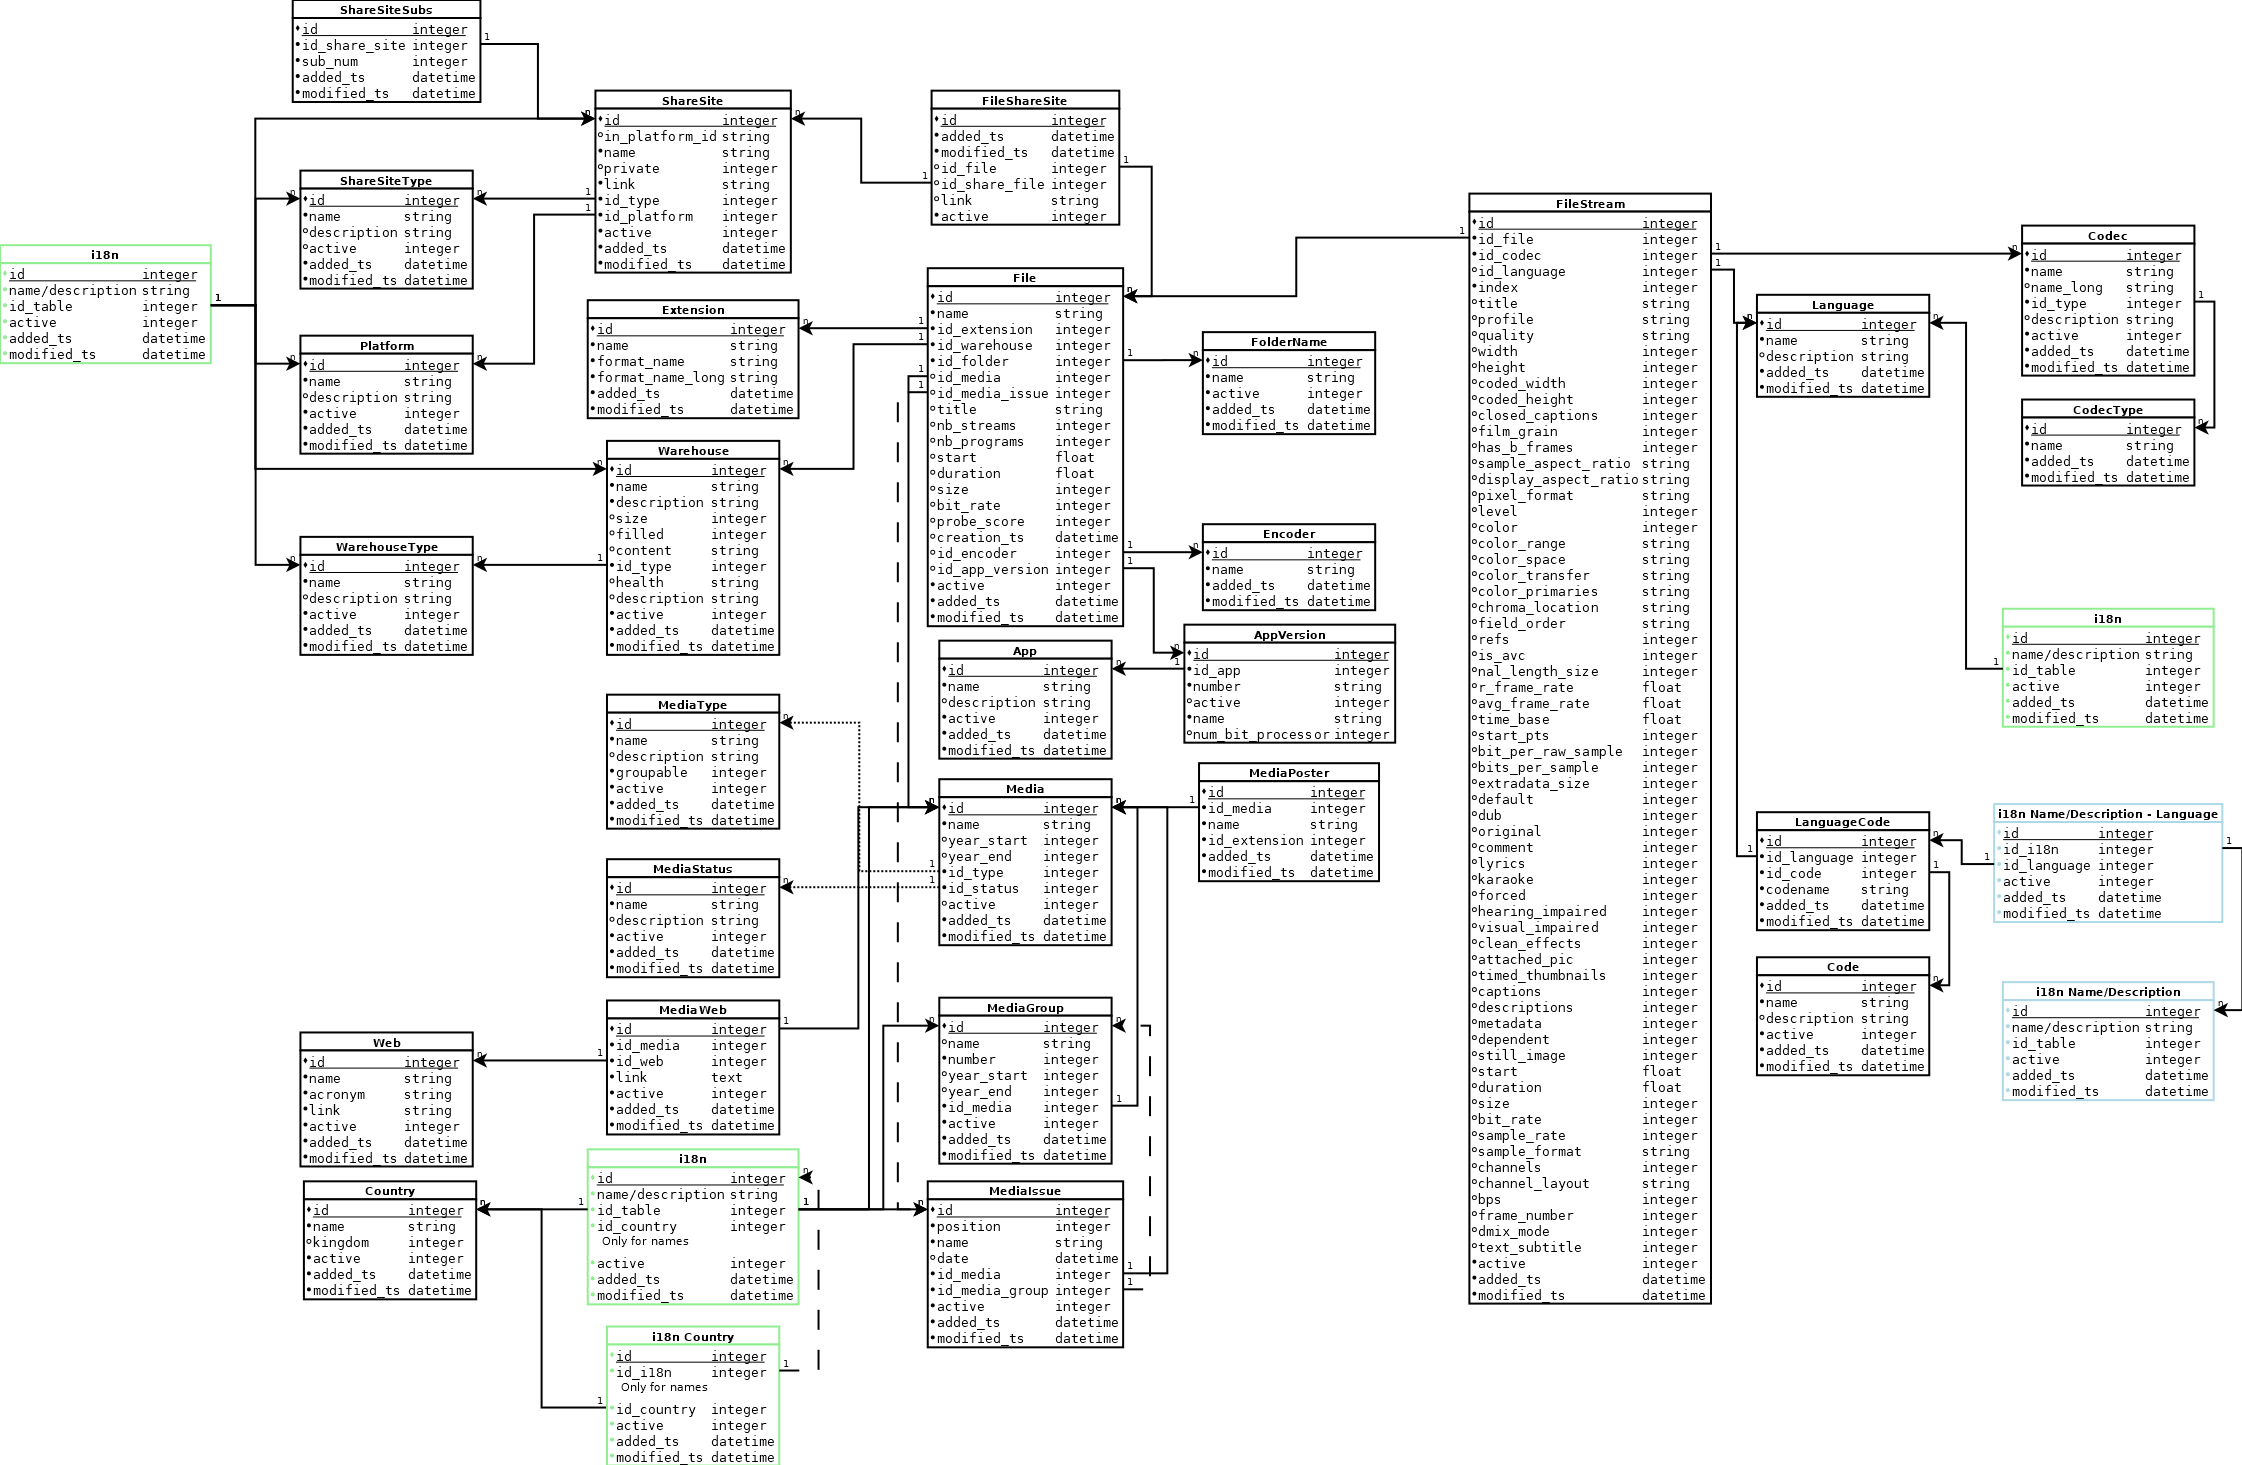
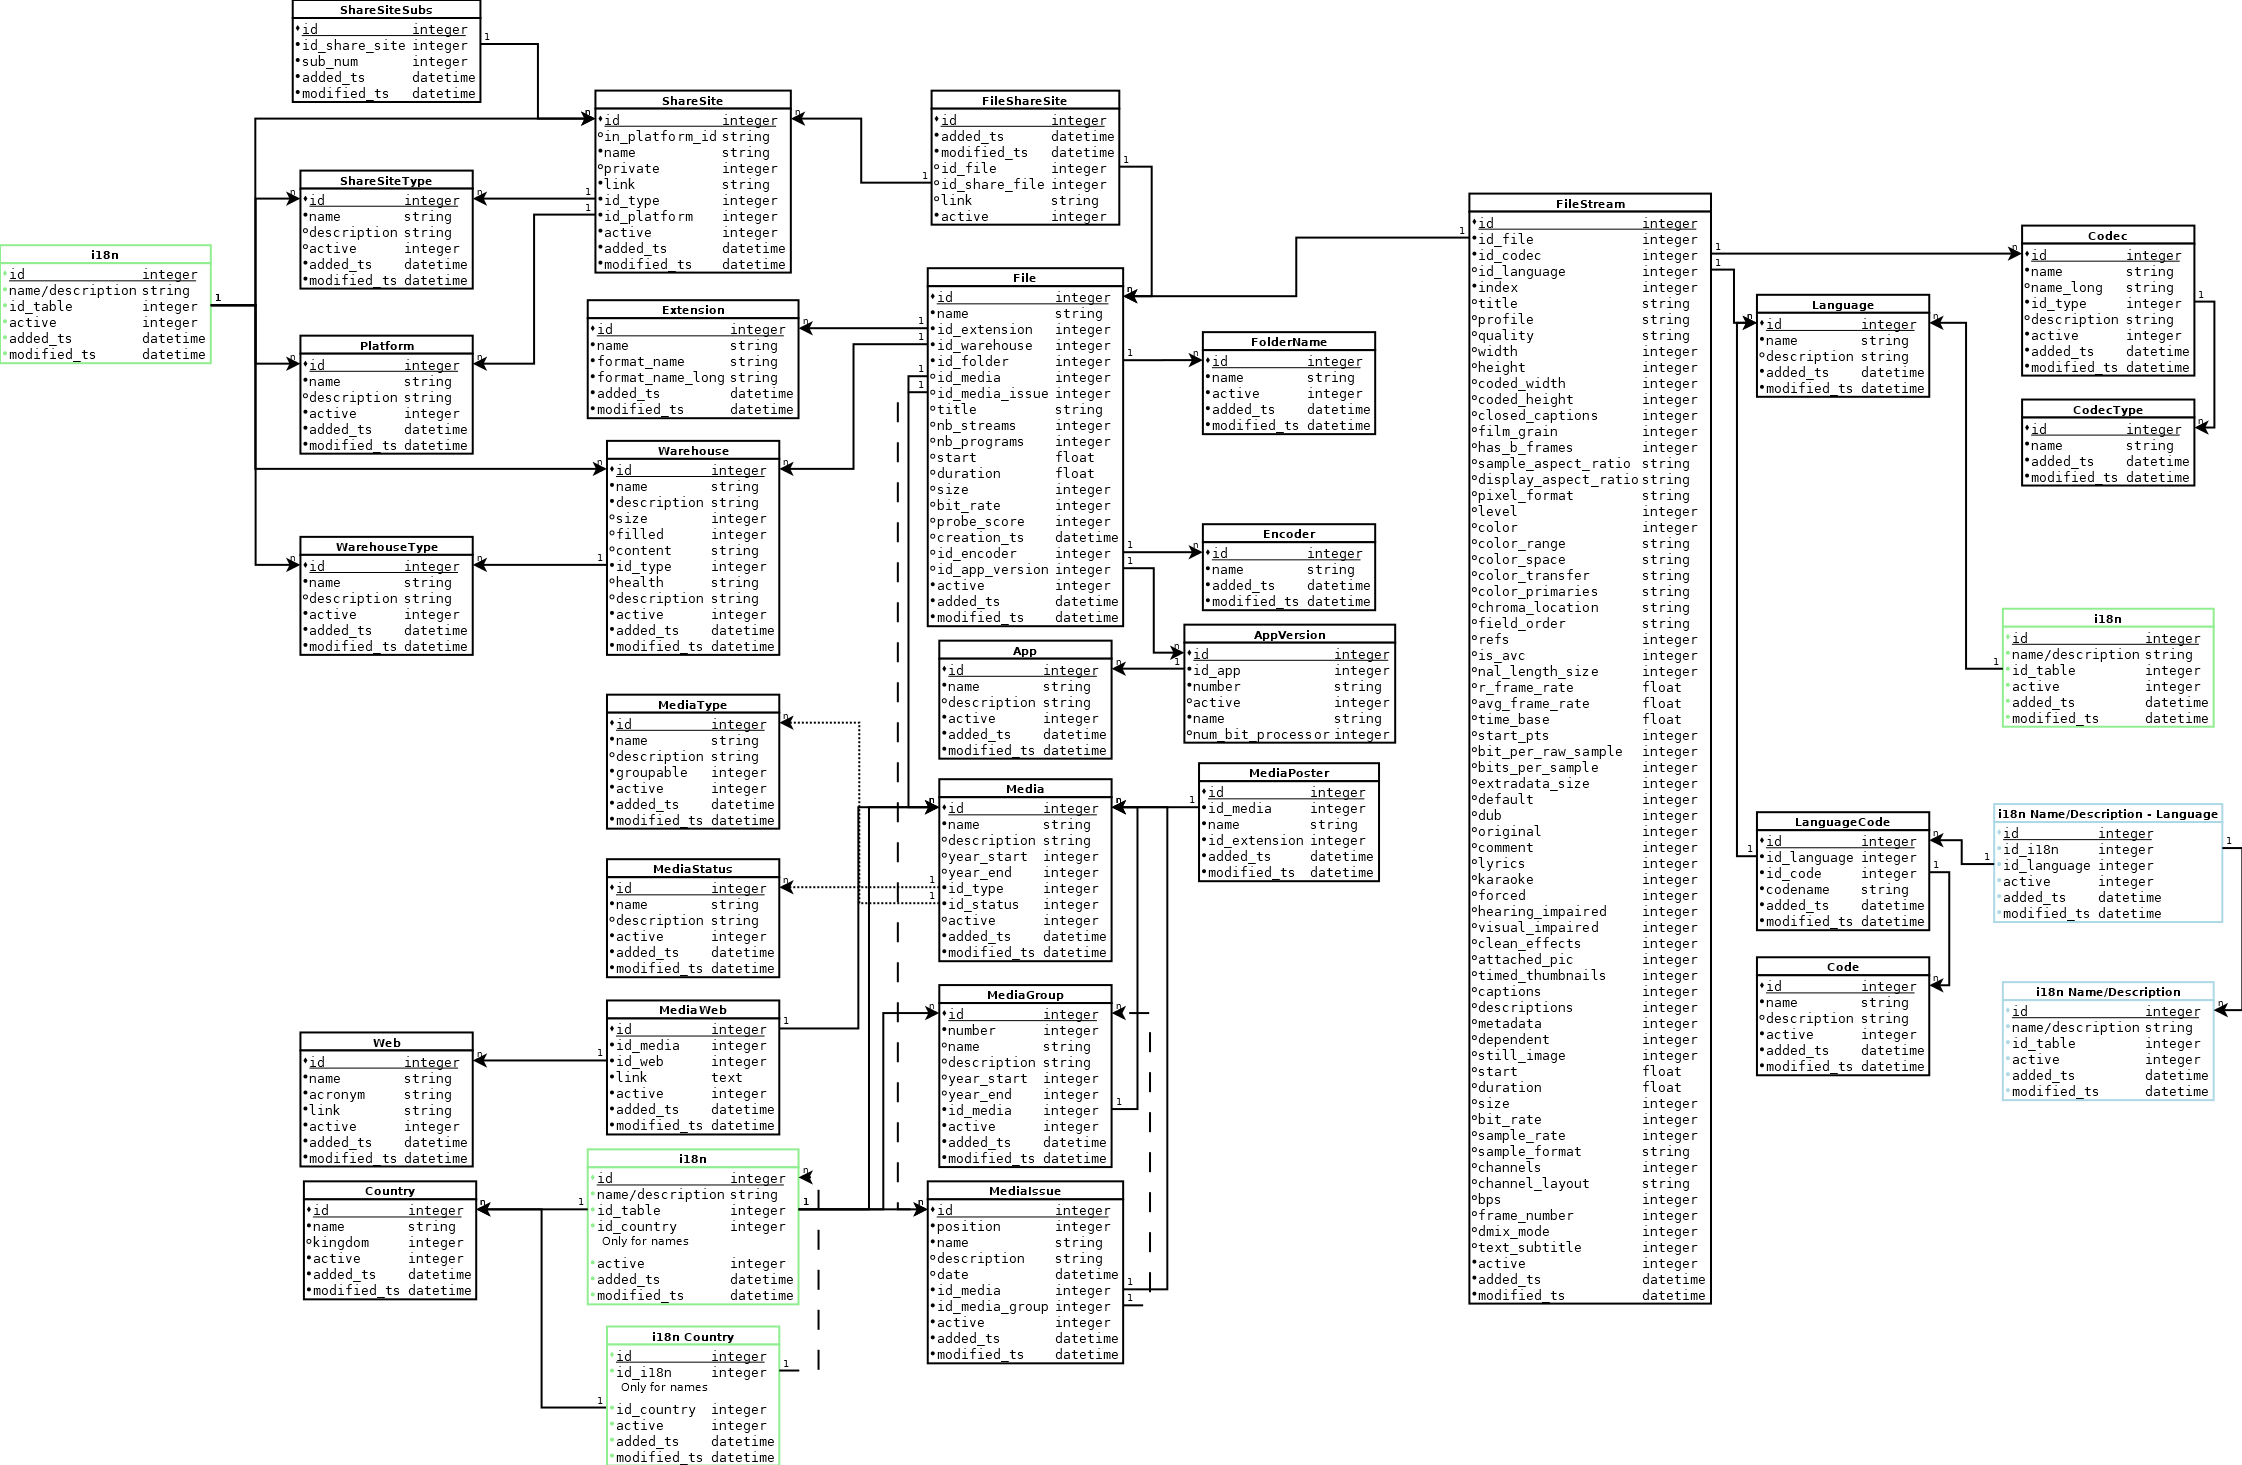
added description to tables media, group and issue

Changed region(s): [[0.4059, 0.5836, 0.4996, 0.7986], [0.4059, 0.8601, 0.5308, 0.9522]]

diff --git a/src/model/sqlite.py b/src/model/sqlite.py
@@ -3,7 +3,7 @@
 # ------------------------------------------------------------------------------
 #+ Autor:  	Ran#
 #+ Creado: 	2023/01/05 21:26:41.185113
-#+ Editado:	2023/02/17 23:16:39.290087
+#+ Editado:	2023/02/18 15:29:13.901555
 # ------------------------------------------------------------------------------
 #* Concrete Strategy (Strategy Pattern)
 # ------------------------------------------------------------------------------
@@ -211,7 +211,7 @@ class Sqlite(iModel):
         return results
 
     def get_all_media(self, limit: int, offset: int, alfabetic: bool) -> List[Media]:
-        sentence = f'select id, name, year_start, year_end, id_type, id_status, active, added_ts, modified_ts from "{Media.table_name}"'
+        sentence = f'select id, name, description, year_start, year_end, id_type, id_status, active, added_ts, modified_ts from "{Media.table_name}"'
         if alfabetic: sentence += ' order by name asc'
         if limit != None and offset != None: sentence += f' LIMIT {limit} OFFSET {offset}'
 
@@ -222,13 +222,14 @@ class Sqlite(iModel):
             results.append(Media(
                     id_         = result[0],
                     name        = result[1],
-                    year_start  = result[2],
-                    year_end    = result[3],
-                    type_       = self.get_media_type_by_id(result[4]),
-                    status      = self.get_media_status_by_id(result[5]),
-                    active      = result[6],
-                    added_ts    = result[7],
-                    modified_ts = result[8]
+                    desc        = result[2],
+                    year_start  = result[3],
+                    year_end    = result[4],
+                    type_       = self.get_media_type_by_id(result[5]),
+                    status      = self.get_media_status_by_id(result[6]),
+                    active      = result[7],
+                    added_ts    = result[8],
+                    modified_ts = result[9]
             ))
         return results
 
@@ -272,18 +273,19 @@ class Sqlite(iModel):
             )
 
     def get_media_by_id(self, id_: int) -> Union[None, Media]:
-        sql_result = self.get_cur_db().execute(f'select id, name, year_start, year_end, id_type, id_status, active, added_ts, modified_ts from "{Media.table_name}" where id="{id_}"').fetchone()
+        sql_result = self.get_cur_db().execute(f'select id, name, description, year_start, year_end, id_type, id_status, active, added_ts, modified_ts from "{Media.table_name}" where id="{id_}"').fetchone()
         if sql_result:
             return Media(
                     id_         = sql_result[0],
                     name        = sql_result[1],
-                    year_start  = sql_result[2],
-                    year_end    = sql_result[3],
-                    type_       = self.get_media_type_by_id(sql_result[4]),
-                    status      = self.get_media_status_by_id(sql_result[5]),
-                    active      = sql_result[6],
-                    added_ts    = sql_result[7],
-                    modified_ts = sql_result[8]
+                    desc        = sql_result[2],
+                    year_start  = sql_result[3],
+                    year_end    = sql_result[4],
+                    type_       = self.get_media_type_by_id(sql_result[5]),
+                    status      = self.get_media_status_by_id(sql_result[6]),
+                    active      = sql_result[7],
+                    added_ts    = sql_result[8],
+                    modified_ts = sql_result[9]
             )
 
     def get_media_group_by_nk(self, obj: MediaGroup) -> Union[None, MediaGroup]:
@@ -295,18 +297,19 @@ class Sqlite(iModel):
         ╠═  MediaGroup   -   The element of the table discriminated by natural key.
         ╚═  None         -   If no matches exists.
         """
-        sql_result = self.get_cur_db().execute(f'select id, name, number, year_start, year_end, id_media, active, added_ts, modified_ts from "{MediaGroup.table_name}" where number="{obj.number}" and id_media="{obj.media.id_}"').fetchone()
+        sql_result = self.get_cur_db().execute(f'select id, name, description, number, year_start, year_end, id_media, active, added_ts, modified_ts from "{MediaGroup.table_name}" where number="{obj.number}" and id_media="{obj.media.id_}"').fetchone()
         if sql_result:
             return MediaGroup(
                     id_         =   sql_result[0],
                     name        =   sql_result[1],
-                    number      =   sql_result[2],
-                    year_start  =   sql_result[3],
-                    year_end    =   sql_result[4],
-                    media       =   self.get_media_by_id(sql_result[5]),
-                    active      =   sql_result[6],
-                    added_ts    =   sql_result[7],
-                    modified_ts =   sql_result[8]
+                    desc        =   sql_result[2],
+                    number      =   sql_result[3],
+                    year_start  =   sql_result[4],
+                    year_end    =   sql_result[5],
+                    media       =   self.get_media_by_id(sql_result[6]),
+                    active      =   sql_result[7],
+                    added_ts    =   sql_result[8],
+                    modified_ts =   sql_result[9]
             )
 
     def get_media_group_by_media_id(self, id_: int, limit: int = None,
@@ -326,7 +329,7 @@ class Sqlite(iModel):
         ╠═  MediaGroup   -   The element of the table discriminated by natural key.
         ╚═  None         -   If no matches exists.
         """
-        sentence = f'select id, name, number, year_start, year_end, id_media, active, added_ts, modified_ts from "{MediaGroup.table_name}" where id_media="{id_}"'
+        sentence = f'select id, name, description, number, year_start, year_end, id_media, active, added_ts, modified_ts from "{MediaGroup.table_name}" where id_media="{id_}"'
         if alfabetic:
             sentence += ' order by name asc'
         if limit != None and offset != None:
@@ -339,13 +342,14 @@ class Sqlite(iModel):
             results.append(MediaGroup(
                     id_         =   result[0],
                     name        =   result[1],
-                    number      =   result[2],
-                    year_start  =   result[3],
-                    year_end    =   result[4],
-                    media       =   self.get_media_by_id(result[5]),
-                    active      =   result[6],
-                    added_ts    =   result[7],
-                    modified_ts =   result[8]
+                    desc        =   result[2],
+                    number      =   result[3],
+                    year_start  =   result[4],
+                    year_end    =   result[5],
+                    media       =   self.get_media_by_id(result[6]),
+                    active      =   result[7],
+                    added_ts    =   result[8],
+                    modified_ts =   result[9]
             ))
         return results
 
@@ -433,13 +437,13 @@ class Sqlite(iModel):
         self.get_cur_db().execute(f'insert into "{MediaType.table_name}" (name, groupable, active) values (?, ?, ?)', (obj.name, obj.groupable, obj.active))
 
     def insert_media(self, obj: Media) -> None:
-        self.get_cur_db().execute(f'insert into "{Media.table_name}" (name, year_start, year_end, id_type, id_status, active) values (?, ?, ?, ?, ?, ?)', (obj.name, obj.year_start, obj.year_end, obj.type_.id_, obj.status.id_, obj.active))
+        self.get_cur_db().execute(f'insert into "{Media.table_name}" (name, description, year_start, year_end, id_type, id_status, active) values (?, ?, ?, ?, ?, ?, ?)', (obj.name, obj.desc, obj.year_start, obj.year_end, obj.type_.id_, obj.status.id_, obj.active))
 
     def insert_media_group(self, obj: MediaGroup) -> None:
-        self.get_cur_db().execute(f'insert into "{MediaGroup.table_name}" (name, number, year_start, year_end, id_media, active) values (?, ?, ?, ?, ?, ?)', (obj.name, obj.number, obj.year_start, obj.year_end, obj.media.id_, obj.active))
+        self.get_cur_db().execute(f'insert into "{MediaGroup.table_name}" (name, description, number, year_start, year_end, id_media, active) values (?, ?, ?, ?, ?, ?, ?)', (obj.name, obj.desc, obj.number, obj.year_start, obj.year_end, obj.media.id_, obj.active))
 
     def insert_media_issue(self, obj: MediaGroup) -> None:
-        self.get_cur_db().execute(f'insert into "{MediaIssue.table_name}" (position, name, date, id_media, id_media_group, active) values (?, ?, ?, ?, ?, ?)', (obj.position, obj.name, obj.date, obj.media.id_, obj.media_group.id_, obj.active))
+        self.get_cur_db().execute(f'insert into "{MediaIssue.table_name}" (position, name, description, date, id_media, id_media_group, active) values (?, ?, ?, ?, ?, ?, ?)', (obj.position, obj.name, obj.desc, obj.date, obj.media.id_, obj.media_group.id_, obj.active))
 
     def insert_platform(self, obj: Platform) -> None:
         self.get_cur_db().execute(f'insert into "{Platform.table_name}" (name, description, active) values (?, ?, ?)', (obj.name, obj.desc, obj.active))

diff --git a/src/view/terminal.py b/src/view/terminal.py
@@ -3,7 +3,7 @@
 # ------------------------------------------------------------------------------
 #+ Autor:  	Ran#
 #+ Creado: 	2023/01/11 22:41:57.231414
-#+ Editado:	2023/02/17 20:53:39.652195
+#+ Editado:	2023/02/18 15:23:00.731515
 # ------------------------------------------------------------------------------
 #* Concrete Strategy (Strategy Pattern)
 # ------------------------------------------------------------------------------
@@ -390,6 +390,12 @@ class Terminal(iView):
                 break
         print()
 
+        # description
+        description = input(f'{Config().input_symbol} ' + _('Description') + ': ')
+        if description == '':
+            description = None
+        print()
+
         # type_
         type_ = self.__pick_from_options(
                 message     =   {
@@ -446,6 +452,7 @@ class Terminal(iView):
 
         return Media(
                 name        =   name,
+                desc        =   description,
                 type_       =   type_,
                 status      =   status,
                 year_start  =   year_start,
@@ -512,6 +519,12 @@ class Terminal(iView):
             name = None
         print()
 
+        # description
+        description = input(f'{Config().input_symbol} ' + _('Description') + ': ')
+        if description == '':
+            description = None
+        print()
+
         # year_start
         year_start = self.__pick_date(
                 message         =   _('Start Year'),
@@ -547,6 +560,7 @@ class Terminal(iView):
                 media       =   media,
                 number      =   number,
                 name        =   name,
+                desc        =   description,
                 year_start  =   year_start,
                 year_end    =   year_end
         )
@@ -621,6 +635,11 @@ class Terminal(iView):
             name = None
         print()
 
+        # description
+        description = input(f'{Config().input_symbol} ' + _('Description') + ': ')
+        if description == '':
+            description = None
+        print()
 
         # date
         date = self.__pick_date(
@@ -639,6 +658,7 @@ class Terminal(iView):
                 media       =   media,
                 media_group =   media_group,
                 name        =   name,
+                desc        =   description,
                 date        =   date
         )
 

diff --git a/src/model/entity/media_issue.py b/src/model/entity/media_issue.py
@@ -3,7 +3,7 @@
 # ------------------------------------------------------------------------------
 #+ Autor:  	Ran#
 #+ Creado: 	2023/01/04 23:41:48.278353
-#+ Editado:	2023/02/17 20:38:07.283722
+#+ Editado:	2023/02/18 15:18:20.470039
 # ------------------------------------------------------------------------------
 from dataclasses import dataclass, field
 from typing import Optional
@@ -23,6 +23,7 @@ class MediaIssue(BaseEntity):
     media: Media
     media_group: MediaGroup
     name: Optional[str] = field(default=None)
+    desc: Optional[str] = field(default=None)
     date: Optional[str] = field(default=None)
     active: Optional[int] = field(default=1)
 # ------------------------------------------------------------------------------

diff --git a/src/model/entity/media_group.py b/src/model/entity/media_group.py
@@ -3,7 +3,7 @@
 # ------------------------------------------------------------------------------
 #+ Autor:  	Ran#
 #+ Creado: 	2023/01/04 23:41:42.686442
-#+ Editado:	2023/02/17 20:38:05.563386
+#+ Editado:	2023/02/18 15:18:05.356005
 # ------------------------------------------------------------------------------
 from dataclasses import dataclass, field
 from typing import Optional
@@ -22,6 +22,7 @@ class MediaGroup(BaseEntity):
     number: int
     media: Media
     name: Optional[str] = field(default=None)
+    desc: Optional[str] = field(default=None)
     year_start: Optional[int] = field(default=None)
     year_end: Optional[int] = field(default=None)
     active: Optional[int] = field(default=1)

diff --git a/src/model/entity/media.py b/src/model/entity/media.py
@@ -23,6 +23,7 @@ class Media(BaseEntity):
     type_: MediaType
     status: MediaStatus
     year_start: int
+    desc: Optional[str] = field(default=None)
     year_end: Optional[int] = field(default=None)
     active: Optional[int] = field(default=1)
 # ------------------------------------------------------------------------------
